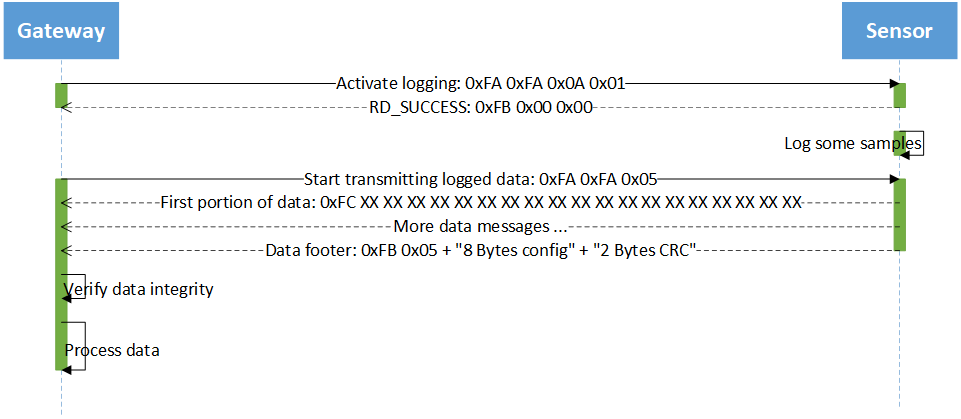
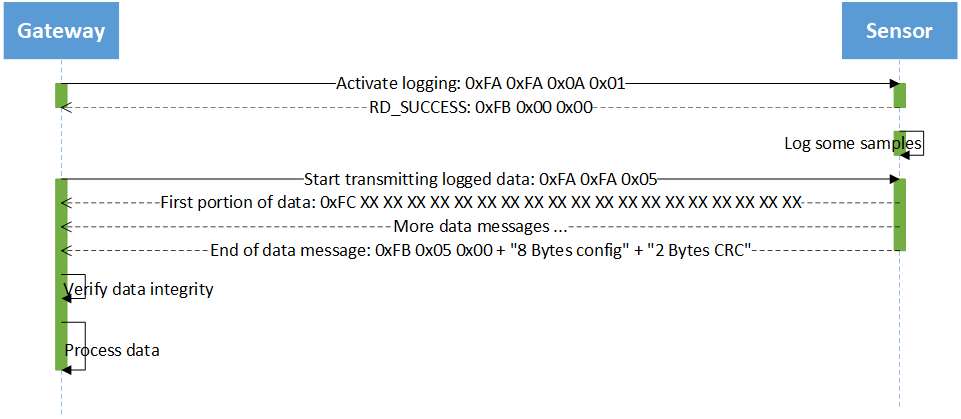
thomas57258 published a site update

Changed region(s): [[0.2185, 0.5585, 0.7804, 0.6205]]

diff --git a/ble-gatt-messages.html b/ble-gatt-messages.html
@@ -24,7 +24,7 @@
 <meta name="author" content="Benjamin Buchwitz" />
 
 
-<meta name="date" content="2021-02-17" />
+<meta name="date" content="2021-03-08" />
 
   <meta name="viewport" content="width=device-width, initial-scale=1" />
   <meta name="apple-mobile-web-app-capable" content="yes" />
@@ -315,7 +315,7 @@ code span.wa { color: #60a0b0; font-weight: bold; font-style: italic; } /* Warni
 </tr>
 <tr class="even">
 <td>P6</td>
-<td>Mode of operation. Allowed values are <code>0xF2</code>, <code>0xF3</code>, <code>0xF4</code>. See datasheet of LIS2DH12.</td>
+<td>Mode of operation. Allowed values are <code>0xF2</code>, <code>0xF3</code>, <code>0xF4</code>. See ruuvi_driver_sensor.h for explanation.</td>
 </tr>
 <tr class="odd">
 <td>P7</td>
@@ -332,22 +332,22 @@ code span.wa { color: #60a0b0; font-weight: bold; font-style: italic; } /* Warni
 </div>
 <div id="read-configuration-of-acceleration-sensor-0x07" class="section level3">
 <h3><span class="header-section-number">6.1.4</span> Read configuration of acceleration sensor (<code>0x07</code>)</h3>
-<p>This message is used to read the configuration of the acceleration sensor (LIS2DH12). The message takes no parameters. The Sensor responds to this message either by a <a href="ble-gatt-messages.html#status-response-0x00">status response</a> containing an error code or by a <a href="ble-gatt-messages.html#configuration-response-0x07">response message which transmits the configuration</a>.</p>
+<p>This message is used to read the configuration of the acceleration sensor (LIS2DH12). The message takes no parameters. The Sensor responds to this message by a <a href="ble-gatt-messages.html#configuration-response-0x07">response message which transmits the configuration</a>.</p>
 <p>The concrete content of this message is: <code>0xFA 0xFA 0x07</code>.</p>
 </div>
 <div id="set-system-time-0x08" class="section level3">
 <h3><span class="header-section-number">6.1.5</span> Set system time (<code>0x08</code>)</h3>
-<p>This message is used to set the RTC of the sensor to a timestamp which is part of the message. The timestamp must be a 8 byte UNIX timestamp. It must be transmitted in <a href="https://en.wikipedia.org/wiki/Endianness#Example">little-endian</a> byte sequence. The sensor responds to this message with a <a href="ble-gatt-messages.html#status-response-0x00">status response</a>.</p>
+<p>This message is used to set the RTC of the sensor to a timestamp which is part of the message. The time is expressed in milliseconds. It must be transmitted in <a href="https://en.wikipedia.org/wiki/Endianness#Example">little-endian</a> byte sequence. The sensor responds to this message with a <a href="ble-gatt-messages.html#status-response-0x00">status response</a>.</p>
 <p>The concrete content of this message is <code>0xFA 0xFA 0x08 XX XX XX XX XX XX XX XX</code>.</p>
 </div>
 <div id="read-system-time-0x09" class="section level3">
 <h3><span class="header-section-number">6.1.6</span> Read system time (<code>0x09</code>)</h3>
-<p>This message is used to read the RTC of the sensor. The sensor responds to this message with a <a href="ble-gatt-messages.html#status-response-0x00">status response</a> containing an error code or with a <a href="ble-gatt-messages.html#timestamp-response-0x09">timestamp response</a>.</p>
+<p>This message is used to read the RTC of the sensor. The sensor responds to this message with a <a href="ble-gatt-messages.html#timestamp-response-0x09">timestamp response</a>.</p>
 <p>The concrete content of this message is <code>0xFA 0xFA 0x09</code>.</p>
 </div>
 <div id="control-acceleration-logging-0x0a" class="section level3">
 <h3><span class="header-section-number">6.1.7</span> Control acceleration logging (<code>0x0A</code>)</h3>
-<p>This message is used to activate or deactivate acceleration logging. It takes one parameter. The parameter is interpreted as a boolean value. If it maps to true acceleration logging is activated. If it maps to false acceleration logging is deactivated. The sensor responds to this message using a <a href="ble-gatt-messages.html#status-response-0x00">status response</a>. Activating acceleration logging when it is already active results in an error. Deactivating acceleration logging when it is not active results in an error.</p>
+<p>This message is used to activate or deactivate acceleration logging. It takes one parameter. The parameter is interpreted as a boolean value. If it maps to true, acceleration logging is activated. If it maps to false, acceleration logging is deactivated. The sensor responds to this message using a <a href="ble-gatt-messages.html#status-response-0x00">status response</a>. Activating acceleration logging when it is already active results in an error. Deactivating acceleration logging when it is not active results in an error.</p>
 <p>The concrete content of this message is <code>0xFA 0xFA 0x0A XX</code>. Where <code>XX</code> can be <code>0x00</code> or <code>0x01</code>.</p>
 </div>
 <div id="query-status-of-acceleration-logging-0x0b" class="section level3">
@@ -493,17 +493,19 @@ code span.wa { color: #60a0b0; font-weight: bold; font-style: italic; } /* Warni
 <h3><span class="header-section-number">6.2.2</span> End of data message (<code>0x03</code>, <code>0x05</code>)</h3>
 <p>This message is sent to the gateway after returning data. It signals the end of the transmission. The type byte (<code>0x03</code>, <code>0x05</code>) maps to the type of data requested. This message contains nine parameters. The current configuration of the acceleration sensor are the first eight parameter. The structure is the same as shown in the <a href="ble-gatt-messages.html#set-configuration-of-acceleration-sensor-0x06">set configuration message</a>. The CRC16 value of the transmitted data is the 9th parameter.</p>
 <p>To compute the CRC16 value the polynom <code>0x11021</code> with the initial value <code>0xFFFF</code> is used. The output bytes are not reversed and not XOR’d. The CRC value is of size 2 bytes. It is transfered in <a href="https://en.wikipedia.org/wiki/Endianness#Example">little-endian</a> byte sequence.</p>
-<p>The concrete content of this message is <code>0xFB 0x03/0x05 P1 P2 P3 P4 P5 P6 P7 P8 CRC1 CRC2</code>.</p>
+<p>The concrete content of this message is <code>0xFB 0x03/0x05 SS P1 P2 P3 P4 P5 P6 P7 P8 CRC1 CRC2</code>.</p>
+<p>Where <code>SS</code> is the status code.</p>
 </div>
 <div id="configuration-response-0x07" class="section level3">
 <h3><span class="header-section-number">6.2.3</span> Configuration response (<code>0x07</code>)</h3>
-<p>This message is sent to the gateway after requesting the current configuration. The message contains one parameter containing the current configuration.</p>
-<p>The concrete content of this message is <code>0xFB 0x07 P1 P2 P3 P4 P5 P6 P7 P8</code>. The values P1 to P8 map to the same values as shown in <a href="ble-gatt-messages.html#set-configuration-of-acceleration-sensor-0x06">set configuration message</a>.</p>
+<p>This message is sent to the gateway after requesting the current configuration. The message contains eight parameters containing the current configuration. If the status code signals an error the transmitted values is undefined.</p>
+<p>The concrete content of this message is <code>0xFB 0x07 SS P1 P2 P3 P4 P5 P6 P7 P8</code>. The values P1 to P8 map to the same values as shown in <a href="ble-gatt-messages.html#set-configuration-of-acceleration-sensor-0x06">set configuration message</a>.</p>
+<p>Where <code>SS</code> is the status code.</p>
 </div>
 <div id="timestamp-response-0x09" class="section level3">
 <h3><span class="header-section-number">6.2.4</span> Timestamp response (<code>0x09</code>)</h3>
-<p>This message is sent to the gateway after requesting the system time. The message contains one parameter. The parameter is a 8 byte value containing the current timestamp. The bytes are transferred in <a href="https://en.wikipedia.org/wiki/Endianness#Example">little-endian</a> sequence.</p>
-<p>The concrete content of this message is <code>0xFB 0x09 XX XX XX XX XX XX XX XX</code>.</p>
+<p>This message is sent to the gateway after requesting the system time. The message contains one parameter. The parameter is a 8 byte value containing the current timestamp. The bytes are transferred in <a href="https://en.wikipedia.org/wiki/Endianness#Example">little-endian</a> sequence. If the status code signals an error the transmitted value is undefined.</p>
+<p>The concrete content of this message is <code>0xFB 0x09 SS XX XX XX XX XX XX XX XX</code>. Where <code>SS</code> is the status code.</p>
 </div>
 </div>
 <div id="data-message" class="section level2">

diff --git a/system-info.html b/system-info.html
@@ -24,7 +24,7 @@
 <meta name="author" content="Benjamin Buchwitz" />
 
 
-<meta name="date" content="2021-02-17" />
+<meta name="date" content="2021-03-08" />
 
   <meta name="viewport" content="width=device-width, initial-scale=1" />
   <meta name="apple-mobile-web-app-capable" content="yes" />
@@ -237,7 +237,7 @@ code span.wa { color: #60a0b0; font-weight: bold; font-style: italic; } /* Warni
 <div id="system-info" class="section level1 unnumbered">
 <h1>System Info</h1>
 <div class="sourceCode" id="cb2"><pre class="sourceCode r"><code class="sourceCode r"><span id="cb2-1"><a href="system-info.html#cb2-1"></a><span class="kw">Sys.time</span>()</span></code></pre></div>
-<pre><code>## [1] &quot;2021-02-17 08:29:27 UTC&quot;</code></pre>
+<pre><code>## [1] &quot;2021-03-08 16:57:44 UTC&quot;</code></pre>
 <div class="sourceCode" id="cb4"><pre class="sourceCode r"><code class="sourceCode r"><span id="cb4-1"><a href="system-info.html#cb4-1"></a><span class="kw">sessionInfo</span>()</span></code></pre></div>
 <pre><code>## R version 4.0.4 (2021-02-15)
 ## Platform: x86_64-apple-darwin17.0 (64-bit)
@@ -254,16 +254,16 @@ code span.wa { color: #60a0b0; font-weight: bold; font-style: italic; } /* Warni
 ## [1] stats     graphics  grDevices utils     datasets  methods   base     
 ## 
 ## other attached packages:
-## [1] kableExtra_1.3.2 knitr_1.31      
+## [1] kableExtra_1.3.4 knitr_1.31      
 ## 
 ## loaded via a namespace (and not attached):
-##  [1] bookdown_0.21     viridisLite_0.3.0 digest_0.6.27     R6_2.5.0         
-##  [5] lifecycle_1.0.0   magrittr_2.0.1    scales_1.1.1      evaluate_0.14    
-##  [9] httr_1.4.2        rlang_0.4.10      stringi_1.5.3     rstudioapi_0.13  
-## [13] xml2_1.3.2        rmarkdown_2.6     webshot_0.5.2     tools_4.0.4      
-## [17] stringr_1.4.0     glue_1.4.2        munsell_0.5.0     xfun_0.21        
-## [21] yaml_2.2.1        compiler_4.0.4    colorspace_2.0-0  rvest_0.3.6      
-## [25] htmltools_0.5.1.1</code></pre>
+##  [1] rstudioapi_0.13   xml2_1.3.2        magrittr_2.0.1    rvest_0.3.6      
+##  [5] munsell_0.5.0     colorspace_2.0-0  viridisLite_0.3.0 R6_2.5.0         
+##  [9] rlang_0.4.10      stringr_1.4.0     httr_1.4.2        tools_4.0.4      
+## [13] webshot_0.5.2     xfun_0.21         htmltools_0.5.1.1 systemfonts_1.0.1
+## [17] yaml_2.2.1        digest_0.6.27     lifecycle_1.0.0   bookdown_0.21    
+## [21] glue_1.4.2        evaluate_0.14     rmarkdown_2.7     stringi_1.5.3    
+## [25] compiler_4.0.4    scales_1.1.1      svglite_2.0.0</code></pre>
 
 </div>
             </section>

diff --git a/index.html b/index.html
@@ -24,7 +24,7 @@
 <meta name="author" content="Benjamin Buchwitz" />
 
 
-<meta name="date" content="2021-02-17" />
+<meta name="date" content="2021-03-08" />
 
   <meta name="viewport" content="width=device-width, initial-scale=1" />
   <meta name="apple-mobile-web-app-capable" content="yes" />
@@ -237,7 +237,7 @@ code span.wa { color: #60a0b0; font-weight: bold; font-style: italic; } /* Warni
 <div id="header">
 <h1 class="title">Big Data Case Studies</h1>
 <p class="author"><em>Benjamin Buchwitz</em></p>
-<p class="date"><em>2021-02-17</em></p>
+<p class="date"><em>2021-03-08</em></p>
 </div>
 <div id="introduction" class="section level1">
 <h1><span class="header-section-number">Chapter 1</span> Introduction</h1>

diff --git a/backend-1.html b/backend-1.html
@@ -24,7 +24,7 @@
 <meta name="author" content="Benjamin Buchwitz" />
 
 
-<meta name="date" content="2021-02-17" />
+<meta name="date" content="2021-03-08" />
 
   <meta name="viewport" content="width=device-width, initial-scale=1" />
   <meta name="apple-mobile-web-app-capable" content="yes" />

diff --git a/backend.html b/backend.html
@@ -24,7 +24,7 @@
 <meta name="author" content="Benjamin Buchwitz" />
 
 
-<meta name="date" content="2021-02-17" />
+<meta name="date" content="2021-03-08" />
 
   <meta name="viewport" content="width=device-width, initial-scale=1" />
   <meta name="apple-mobile-web-app-capable" content="yes" />

diff --git a/commerical-applications.html b/commerical-applications.html
@@ -24,7 +24,7 @@
 <meta name="author" content="Benjamin Buchwitz" />
 
 
-<meta name="date" content="2021-02-17" />
+<meta name="date" content="2021-03-08" />
 
   <meta name="viewport" content="width=device-width, initial-scale=1" />
   <meta name="apple-mobile-web-app-capable" content="yes" />

diff --git a/contributors.html b/contributors.html
@@ -24,7 +24,7 @@
 <meta name="author" content="Benjamin Buchwitz" />
 
 
-<meta name="date" content="2021-02-17" />
+<meta name="date" content="2021-03-08" />
 
   <meta name="viewport" content="width=device-width, initial-scale=1" />
   <meta name="apple-mobile-web-app-capable" content="yes" />

diff --git a/gateway-1.html b/gateway-1.html
@@ -24,7 +24,7 @@
 <meta name="author" content="Benjamin Buchwitz" />
 
 
-<meta name="date" content="2021-02-17" />
+<meta name="date" content="2021-03-08" />
 
   <meta name="viewport" content="width=device-width, initial-scale=1" />
   <meta name="apple-mobile-web-app-capable" content="yes" />

diff --git a/gateway.html b/gateway.html
@@ -24,7 +24,7 @@
 <meta name="author" content="Benjamin Buchwitz" />
 
 
-<meta name="date" content="2021-02-17" />
+<meta name="date" content="2021-03-08" />
 
   <meta name="viewport" content="width=device-width, initial-scale=1" />
   <meta name="apple-mobile-web-app-capable" content="yes" />

diff --git a/getting-started.html b/getting-started.html
@@ -24,7 +24,7 @@
 <meta name="author" content="Benjamin Buchwitz" />
 
 
-<meta name="date" content="2021-02-17" />
+<meta name="date" content="2021-03-08" />
 
   <meta name="viewport" content="width=device-width, initial-scale=1" />
   <meta name="apple-mobile-web-app-capable" content="yes" />

diff --git a/sensor-1.html b/sensor-1.html
@@ -24,7 +24,7 @@
 <meta name="author" content="Benjamin Buchwitz" />
 
 
-<meta name="date" content="2021-02-17" />
+<meta name="date" content="2021-03-08" />
 
   <meta name="viewport" content="width=device-width, initial-scale=1" />
   <meta name="apple-mobile-web-app-capable" content="yes" />

diff --git a/sensor.html b/sensor.html
@@ -24,7 +24,7 @@
 <meta name="author" content="Benjamin Buchwitz" />
 
 
-<meta name="date" content="2021-02-17" />
+<meta name="date" content="2021-03-08" />
 
   <meta name="viewport" content="width=device-width, initial-scale=1" />
   <meta name="apple-mobile-web-app-capable" content="yes" />
